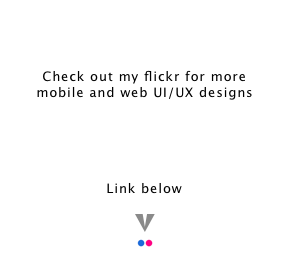
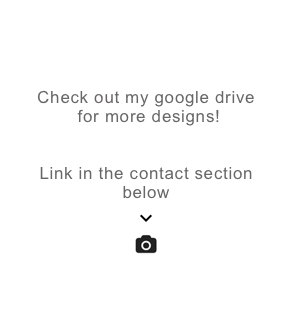
update

diff --git a/index.html b/index.html
@@ -260,7 +260,7 @@
                         <a href="https://angel.co/sanchitt-dhir" class="btn btn-default btn-lg"><i class="fa fa-angellist fa-fw"></i> <span class="network-name"></span></a>
                     </li>
                     <li>
-                        <a href="https://www.flickr.com/people/157127494@N02/" class="btn btn-default btn-lg"><i class="fa fa-flickr fa-fw"></i> <span class="network-name"></span></a>
+                        <a href="https://www.flickr.com/people/157127494@N02/" class="btn btn-default btn-lg"><i class="fa fa-camera fa-fw"></i> <span class="network-name"></span></a>
                     </li>
                    <li>
                         <a href="https://www.facebook.com/sanchitt.dhir" class="btn btn-default btn-lg"><i class="fa fa-facebook fa-fw"></i> <span class="network-name"></span></a>
